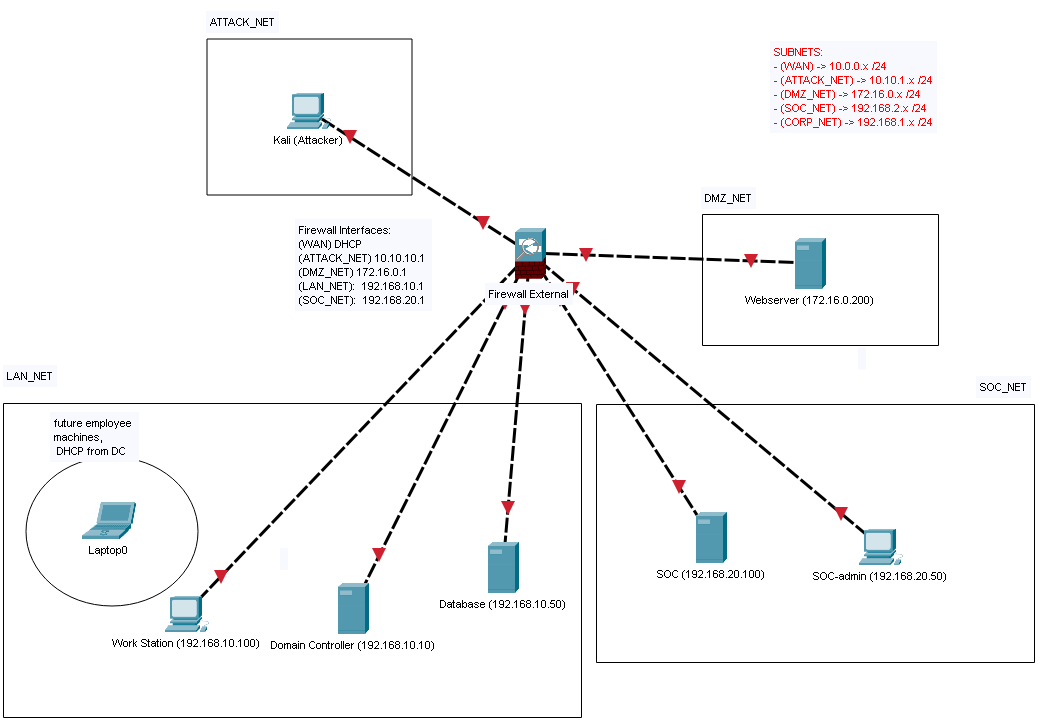
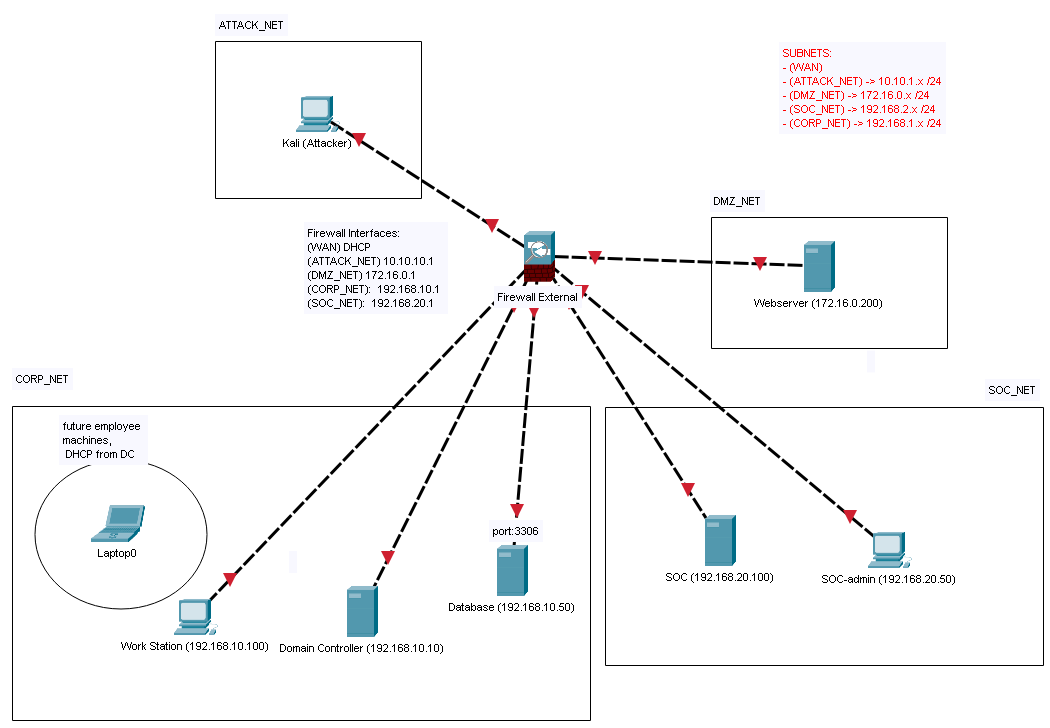
misc edits + start of log-analysis.md (account lockout detection)

diff --git a/docs/network-architecture.md b/docs/network-architecture.md
@@ -20,9 +20,27 @@ The network is built on VMware Workstation and segmented into four subnets, all 
 | Web-Server (DVWA) | Ubuntu Server | 172.16.0.200 | DMZ_NET | DVWA web application (Apache + PHP) |
 | DB-Server | Ubuntu Server | 192.168.10.50 | LAN_NET | MariaDB backend for DVWA |
 | DC-Server | Windows Server | 192.168.10.10 | LAN_NET | Active Directory Domain Controller |
-| Win10-Client | Windows 10/11 | DHCP | LAN_NET | Corporate workstation |
+| W11-Client | Windows 11 Enterprise | DHCP | LAN_NET | Corporate workstation |
 | Splunk-Server | Ubuntu Server | 192.168.20.100 | SOC_NET | Splunk SIEM - log aggregation and alerting |
-| SOC-Admin | Windows 10/11 | 192.168.20.50 | SOC_NET | SOC analyst workstation and bastion host |
+| SOC-Admin | Windows 11 | 192.168.20.50 | SOC_NET | SOC analyst workstation and bastion host |
+
+### Machine Descriptions
+
+**pfSense** - The central security gateway. All inter-subnet traffic passes through pfSense, where firewall rules enforce access control between zones. Also handles NAT routing for internet access, DNS resolution for all subnets (forwarding queries on behalf of hosts), DHCP for non-corporate subnets, and port forwarding from WAN to DMZ services.
+
+**Kali-Attacker** - Offensive security workstation used for red team exercises against the lab environment. Runs tools including Hydra, Burp Suite, John the Ripper, Nmap, and Netcat. Firewall rules restrict it to only reaching the DVWA webserver in the DMZ, simulating an external attacker with access limited to public-facing services.
+
+**Web-Server (DVWA)** - Hosts the Damn Vulnerable Web Application on Apache with PHP. This is the primary attack target in the lab. It connects to a remote MariaDB database on CORP_NET for its backend and forwards logs to the Splunk server on SOC_NET. Port forwarding on pfSense exposes it through the WAN interface, simulating a public-facing web server.
+
+**DB-Server** - Hosts the MariaDB database used by DVWA, including both DVWA's application tables and custom fake data (customer PII, credit cards, employee records, credentials) used for SQL injection and data exfiltration exercises. Sits on CORP_NET and only accepts database connections from the DVWA webserver on port 3306.
+
+**DC-Server** - Active Directory Domain Controller for `corp.homelab.local`. Provides centralized identity management, DNS, and DHCP for CORP_NET. Manages user accounts, security groups, OUs, and Group Policy Objects that enforce password policies, account lockout, least-privilege access, and audit logging across domain-joined machines.
+
+**W11-Client** - Domain-joined corporate workstation representing a standard employee endpoint. Receives its IP via DHCP from the DC, authenticates users against Active Directory, and has GPOs applied that restrict local admin rights based on security group membership. Used to test and verify access controls for different roles (IT admin vs HelpDesk vs standard user).
+
+**Splunk-Server** - Centralized SIEM responsible for collecting, indexing, and correlating security logs from endpoints across all subnets. Receives logs via Splunk Universal Forwarders on port 9997. Used to build SPL queries, correlation searches, alert rules, and dashboards for detecting attacks performed in the lab.
+
+**SOC-Admin** - The security analyst's primary workstation and the central management point for the lab. Used to access the Splunk web interface for log analysis and alerting, the pfSense web GUI for firewall management, and SSH into Linux servers for administration. Acts as a bastion host - SSH access to servers is scoped to this machine only via firewall rules.
 
 ## Key Security Principles
 

diff --git a/defenses/log-analysis.md b/defenses/log-analysis.md
@@ -4,6 +4,45 @@
 
 Documentation of Splunk SPL queries, correlation searches, and alert dashboards used to detect attacks performed in the lab.
 
+## 1. Account Lockout Detection
+
+### Audit Policy Configuration
+
+By default, Windows does not log many of the events needed for security monitoring. Advanced audit policies were enabled on the Domain Controller so that key events like account lockouts (Event ID 4740) are actually generated and forwarded to Splunk.
+
+The following audit categories were enabled (Success and Failure):
+
+| Category | Subcategory | Purpose |
+|---|---|---|
+| Account Management | All | Tracks user/group creation, deletion, modifications, and lockouts (4740) |
+| Account Logon | Credential Validation | Tracks credential validation against the DC (4776) |
+| Logon/Logoff | Logon, Logoff, Account Lockout | Tracks failed logon attempts (4625), successful logons (4624), and lockouts |
+| Detailed Tracking | Process Creation | Tracks every process spawn (4688) - critical for detecting malware execution |
+| Policy Change | Audit Policy Change | Detects if an attacker modifies or disables audit policies to cover their tracks |
+| Privilege Use | Sensitive Privilege Use | Tracks use of sensitive privileges like SeDebugPrivilege, commonly abused by tools like Mimikatz |
+
+![Advanced audit policies on DC](../links/screenshots/splunk-queries/advanced-audit-policies.png)
+
+### SPL Query
+
+With the audit policies in place, the following SPL query searches Windows Security event logs for account lockout events:
+
+```spl
+index=main sourcetype="WinEventLog:Security" EventCode=4740
+```
+
+This filters for Event ID 4740 (account lockout). In a production environment this would be paired with a Splunk alert set to trigger on a short interval (e.g. every 5 minutes) to enable near-real-time detection.
+
+To test the query, the domain account `m.webb` was intentionally locked out by entering incorrect passwords on the W11-Client workstation.
+
+![Account locked out on DC](../links/screenshots/splunk-queries/acc-lockout.png)
+
+### Result
+
+The query returned a lockout event for the user `m.webb`, confirming that the audit policies, log forwarding, and Splunk query are all working end to end.
+
+![Event 4740 - m.webb locked out](../links/screenshots/splunk-queries/win-event-4740.png)
+
 ## Sections to Cover
 - SPL queries for detecting brute force, command injection, and lateral movement
 - Correlation searches linking events across endpoints

diff --git a/docs/splunk-setup.md b/docs/splunk-setup.md
@@ -11,3 +11,7 @@ Documentation of the Splunk SIEM deployment, Universal Forwarder configuration a
 - Index structure and data inputs
 - SPL queries for threat detection
 - Correlation searches and alert dashboards
+
+## Future To Do
+- Splunk Deployment Server (maybe)
+- Sysmon
